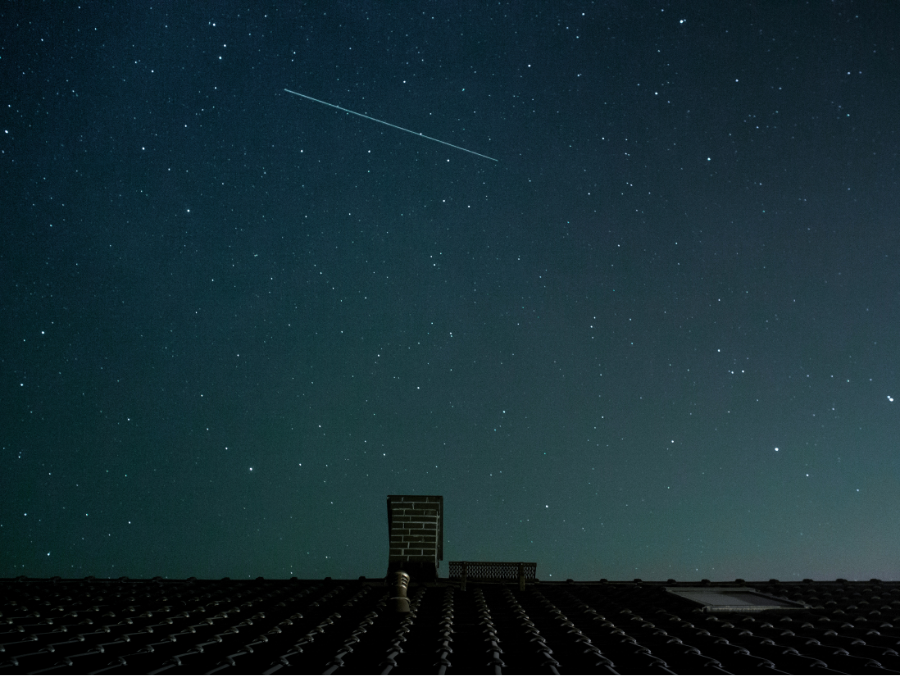
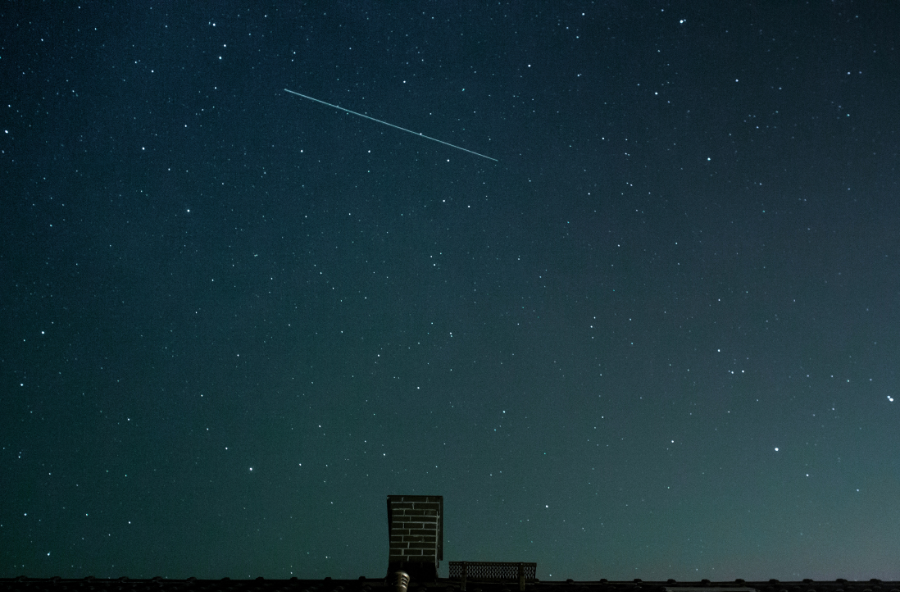
Tweaked the back img and this is my finished product...not exact...

Changed region(s): [[0.0, 0.7297, 1.0, 1.0], [0.3422, 0.152, 0.5289, 0.2736], [0.3111, 0.1216, 0.3422, 0.152]]

diff --git a/public/index.html b/public/index.html
@@ -11,19 +11,20 @@
 <body>
 
   <main>
-    <div class="hello">
-      <div class="hello-img">
-        <img src="image/BrunoSmall.jpg" alt="Bruno Ribeiro">
-      </div>
-      <div class="hello-block">
-        <blockquote>
-          <h4>Hello, I&apos;m Bruno Ribeiro!</h4> I&apos;m a Student at The Iron Yard St. Petersburg Cohort 7.
-        </blockquote>
-        <div class="tri">
-          <img src="image/tri.png" alt="Triangle">
+    <div class="container1">
+      <div class="hello">
+        <div class="hello-img">
+          <img src="image/BrunoSmall.jpg" alt="Bruno Ribeiro">
+        </div>
+        <div class="hello-block">
+          <blockquote>
+            <h4>Hello, I&apos;m Bruno Ribeiro!</h4> I&apos;m a Student at The Iron Yard St. Petersburg Cohort 7.
+          </blockquote>
+          <div class="tri">
+            <img src="image/tri.png" alt="Triangle">
+          </div>
         </div>
       </div>
-    </div>
 
     <div class="sites">
       <img src="image/one-list.png" alt="">
@@ -31,6 +32,7 @@
       <img src="image/bomb-sniffer.png" alt="">
       <img src="image/sensei-sense.png" alt="">
     </div>
+  </div>
 
     <article class="box1">
       <img src="image/react.png" alt="Reactor Image">
@@ -48,9 +50,9 @@
       <p><span class="bold-box">Fizz Buzz&nbsp;</span>March 17th, 2017<br><br>Lorem ipsum dolor sit amet, consectetur adipisicing elit, sed do eiusmod tempor incididunt ut labore et dolore magna aliqua. Ut enim ad minim veniam, quis nostrud exercitation
         ullamco laboris nisi ut aliquip ex ea commodo consequat. Duis aute irure dolor in reprehenderit in voluptate velit esse cillum dolore eu fugiat nulla pariatur. Excepteur sint occaecat cupidatat non proident, sunt in culpa qui officia deserunt
         mollit anim id est laborum.</p>
-        <div class="box-blue">
-          <h3>KEEP READING</h3>
-        </div>
+      <div class="box-blue">
+        <h3>KEEP READING</h3>
+      </div>
     </article>
 
     <div class="twitter">

diff --git a/public/screen.css b/public/screen.css
@@ -9,10 +9,15 @@ body {
 main {
   display: flex;
   flex-direction: column;
+  background-color: #050e18;
+}
+
+.container1 {
+  /*border: 5px solid red;*/
   background-image: url(image/space.png);
   background-repeat: no-repeat;
-  background-size: contain;
-  background-color: #050e18;
+  background-size: cover;
+
 }
 
 .hello {
@@ -22,7 +27,7 @@ main {
 }
 
 .hello-img {
-  padding: 2em 2em 0 0;
+  padding: 2em 2em 1em 0;
   flex: 1;
 }
 
@@ -34,7 +39,7 @@ main {
   border-radius: 0.5em;
   width: 160px;
   height: 160px;
-  flex: 1 1 50%;
+  flex: 1;
 }
 
 .hello-block blockquote {
@@ -66,7 +71,7 @@ main {
 
 .sites img {
   padding: 1em;
-  flex: 1 1 1%;
+  flex: 1;
 }
 
 .box1 {
